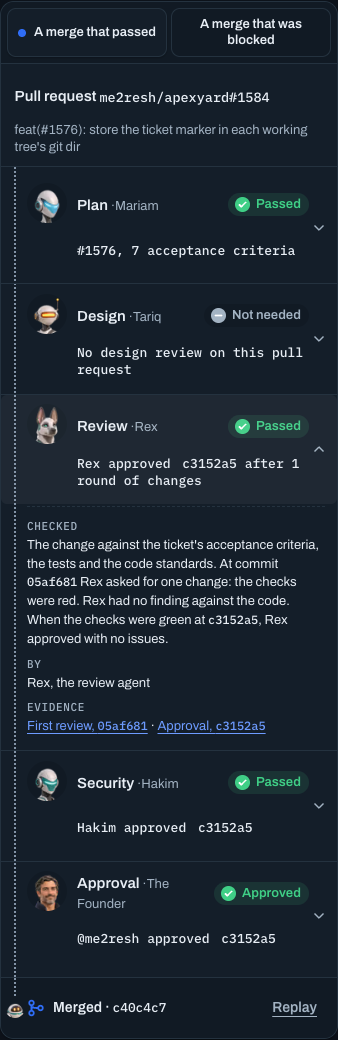
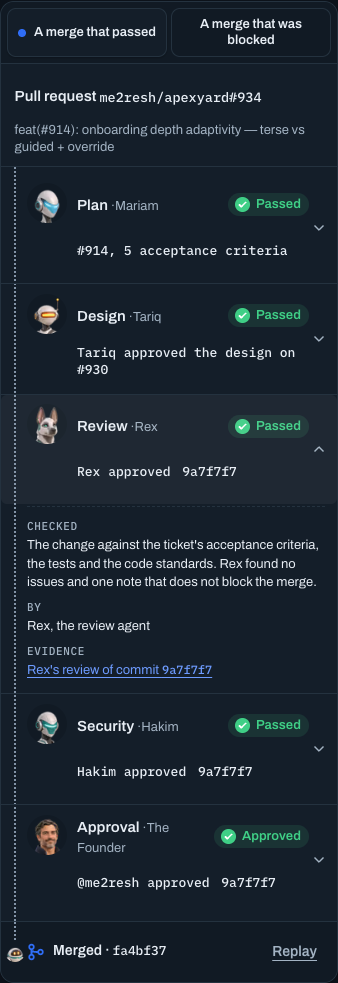
chore(#174): show #934 as the passed example
The passed run now shows me2resh/apexyard#934, which closes ticket #914.
The earlier choice, #1584, had a design review on its predecessor pull
request that asked for changes and never closed.

Every fact and link comes from the real records. The design row links
Tariq's approved design review on #930, the design pull request that #934
builds to. Rex, Hakim and the owner reviewed commit 9a7f7f7 with no round
of changes. The merge commit is fa4bf37.

The new-tab links and the screen reader hint stay on all 29 links.
test-crew-hero.sh now checks #934 and #914. Screenshots are retaken.

Closes #174

diff --git a/index.html b/index.html
@@ -121,8 +121,8 @@
         </div>
         <div class="gc-run gc-run--clean is-active" data-run="clean" role="group" aria-labelledby="gc-title">
         <div class="gc-head">
-          <h2 class="gc-pr" id="gc-title">Pull request <a href="https://github.com/me2resh/apexyard/pull/1584" target="_blank" rel="noopener">me2resh/apexyard#1584<span class="vh"> (opens in a new tab)</span></a></h2>
-          <p class="gc-title">feat(#1576): store the ticket marker in each working tree's git dir</p>
+          <h2 class="gc-pr" id="gc-title">Pull request <a href="https://github.com/me2resh/apexyard/pull/934" target="_blank" rel="noopener">me2resh/apexyard#934<span class="vh"> (opens in a new tab)</span></a></h2>
+          <p class="gc-title">feat(#914): onboarding depth adaptivity &mdash; terse vs guided + override</p>
         </div>
         <ol class="gc-rows">
           <li class="gc-row" style="--i:0">
@@ -130,60 +130,60 @@
               <span class="gc-hadi" aria-hidden="true"></span>
               <span class="gc-av"><picture><source type="image/avif" srcset="/img/crew/av-mariam-48.avif 48w, /img/crew/av-mariam-96.avif 96w" sizes="44px"><source type="image/webp" srcset="/img/crew/av-mariam-48.webp 48w, /img/crew/av-mariam-96.webp 96w" sizes="44px"><img src="/img/crew/av-mariam-96.png" srcset="/img/crew/av-mariam-48.png 48w, /img/crew/av-mariam-96.png 96w" sizes="44px" width="44" height="44" alt="" decoding="async"></picture></span>
               <span class="gc-step"><button class="gc-more" type="button" aria-expanded="false" aria-controls="ev-c-0"><b>Plan</b><span>Mariam</span><span class="vh">, evidence</span></button></span>
-              <a class="gc-fact" href="https://github.com/me2resh/apexyard/issues/1576" target="_blank" rel="noopener"><span>#1576, 7 acceptance criteria</span><span class="vh"> (opens in a new tab)</span></a>
+              <a class="gc-fact" href="https://github.com/me2resh/apexyard/issues/914" target="_blank" rel="noopener"><span>#914, 5 acceptance criteria</span><span class="vh"> (opens in a new tab)</span></a>
               <span class="gc-state gc-state--pass"><svg viewBox="0 0 16 16" aria-hidden="true" focusable="false"><circle cx="8" cy="8" r="8" fill="currentColor"/><path d="M4.6 8.2l2.2 2.2 4.6-4.8" fill="none" stroke="var(--gc-tick)" stroke-width="1.8" stroke-linecap="round" stroke-linejoin="round"/></svg>Passed</span>
               <svg class="gc-chev" viewBox="0 0 16 16" aria-hidden="true" focusable="false"><path d="M4 6l4 4 4-4" fill="none" stroke="currentColor" stroke-width="1.6" stroke-linecap="round" stroke-linejoin="round"/></svg>
             </div>
-            <div class="gc-ev" id="ev-c-0" hidden><dl><div><dt>Checked</dt><dd>The pull request closes ticket #1576, a user story with 7 acceptance criteria. The ticket was written before the code.</dd></div><div><dt>By</dt><dd>The ticket's author, a contributor. This step is Mariam's, the planning agent.</dd></div><div><dt>Evidence</dt><dd><a href="https://github.com/me2resh/apexyard/issues/1576" target="_blank" rel="noopener">Ticket #1576 on GitHub<span class="vh"> (opens in a new tab)</span></a></dd></div></dl></div>
+            <div class="gc-ev" id="ev-c-0" hidden><dl><div><dt>Checked</dt><dd>The pull request closes ticket #914, a user story with 5 acceptance criteria. The ticket was written before the code, from an initiative plan.</dd></div><div><dt>By</dt><dd>Mariam, the planning agent</dd></div><div><dt>Evidence</dt><dd><a href="https://github.com/me2resh/apexyard/issues/914" target="_blank" rel="noopener">Ticket #914 on GitHub<span class="vh"> (opens in a new tab)</span></a></dd></div></dl></div>
           </li>
-          <li class="gc-row gc-row--na" style="--i:1">
+          <li class="gc-row" style="--i:1">
             <div class="gc-main">
               <span class="gc-hadi" aria-hidden="true"></span>
               <span class="gc-av"><picture><source type="image/avif" srcset="/img/crew/av-tariq-48.avif 48w, /img/crew/av-tariq-96.avif 96w" sizes="44px"><source type="image/webp" srcset="/img/crew/av-tariq-48.webp 48w, /img/crew/av-tariq-96.webp 96w" sizes="44px"><img src="/img/crew/av-tariq-96.png" srcset="/img/crew/av-tariq-48.png 48w, /img/crew/av-tariq-96.png 96w" sizes="44px" width="44" height="44" alt="" decoding="async"></picture></span>
               <span class="gc-step"><button class="gc-more" type="button" aria-expanded="false" aria-controls="ev-c-1"><b>Design</b><span>Tariq</span><span class="vh">, evidence</span></button></span>
-              <a class="gc-fact" href="https://github.com/me2resh/apexyard/pull/1584/files" target="_blank" rel="noopener"><span>No design review on this pull request</span><span class="vh"> (opens in a new tab)</span></a>
-              <span class="gc-state gc-state--na"><svg viewBox="0 0 16 16" aria-hidden="true" focusable="false"><circle cx="8" cy="8" r="8" fill="currentColor"/><path d="M4.8 8h6.4" fill="none" stroke="var(--gc-tick)" stroke-width="1.8" stroke-linecap="round"/></svg>Not needed</span>
+              <a class="gc-fact" href="https://github.com/me2resh/apexyard/pull/930#pullrequestreview-4712404847" target="_blank" rel="noopener"><span>Tariq approved the design on #930</span><span class="vh"> (opens in a new tab)</span></a>
+              <span class="gc-state gc-state--pass"><svg viewBox="0 0 16 16" aria-hidden="true" focusable="false"><circle cx="8" cy="8" r="8" fill="currentColor"/><path d="M4.6 8.2l2.2 2.2 4.6-4.8" fill="none" stroke="var(--gc-tick)" stroke-width="1.8" stroke-linecap="round" stroke-linejoin="round"/></svg>Passed</span>
               <svg class="gc-chev" viewBox="0 0 16 16" aria-hidden="true" focusable="false"><path d="M4 6l4 4 4-4" fill="none" stroke="currentColor" stroke-width="1.6" stroke-linecap="round" stroke-linejoin="round"/></svg>
             </div>
-            <div class="gc-ev" id="ev-c-1" hidden><dl><div><dt>Checked</dt><dd>This pull request continues pull request #1578. Tariq reviewed the design there, at commit <code>276fc36</code>, and asked for changes. No second design review ran on this pull request, so this row does not claim one.</dd></div><div><dt>By</dt><dd>Tariq, the design agent</dd></div><div><dt>Evidence</dt><dd><a href="https://github.com/me2resh/apexyard/pull/1578#pullrequestreview-5457528914" target="_blank" rel="noopener">Tariq's design review on pull request #1578<span class="vh"> (opens in a new tab)</span></a></dd></div></dl></div>
+            <div class="gc-ev" id="ev-c-1" hidden><dl><div><dt>Checked</dt><dd>The design was reviewed before any code, in pull request #930. It merged before this pull request. Tariq approved it at commit <code>965f28a</code>. This pull request builds to that design and adds no design file.</dd></div><div><dt>By</dt><dd>Tariq, the design agent</dd></div><div><dt>Evidence</dt><dd><a href="https://github.com/me2resh/apexyard/pull/930#pullrequestreview-4712404847" target="_blank" rel="noopener">Tariq's design review on pull request #930<span class="vh"> (opens in a new tab)</span></a></dd></div></dl></div>
           </li>
           <li class="gc-row" style="--i:2">
             <div class="gc-main">
               <span class="gc-hadi" aria-hidden="true"></span>
               <span class="gc-av"><picture><source type="image/avif" srcset="/img/crew/av-rex-48.avif 48w, /img/crew/av-rex-96.avif 96w" sizes="44px"><source type="image/webp" srcset="/img/crew/av-rex-48.webp 48w, /img/crew/av-rex-96.webp 96w" sizes="44px"><img src="/img/crew/av-rex-96.png" srcset="/img/crew/av-rex-48.png 48w, /img/crew/av-rex-96.png 96w" sizes="44px" width="44" height="44" alt="" decoding="async"></picture></span>
               <span class="gc-step"><button class="gc-more" type="button" aria-expanded="false" aria-controls="ev-c-2"><b>Review</b><span>Rex</span><span class="vh">, evidence</span></button></span>
-              <a class="gc-fact" href="https://github.com/me2resh/apexyard/pull/1584#pullrequestreview-5467771279" target="_blank" rel="noopener"><span>Rex approved <code>c3152a5</code> after 1 round of changes</span><span class="vh"> (opens in a new tab)</span></a>
+              <a class="gc-fact" href="https://github.com/me2resh/apexyard/pull/934#pullrequestreview-4712910975" target="_blank" rel="noopener"><span>Rex approved <code>9a7f7f7</code></span><span class="vh"> (opens in a new tab)</span></a>
               <span class="gc-state gc-state--pass"><svg viewBox="0 0 16 16" aria-hidden="true" focusable="false"><circle cx="8" cy="8" r="8" fill="currentColor"/><path d="M4.6 8.2l2.2 2.2 4.6-4.8" fill="none" stroke="var(--gc-tick)" stroke-width="1.8" stroke-linecap="round" stroke-linejoin="round"/></svg>Passed</span>
               <svg class="gc-chev" viewBox="0 0 16 16" aria-hidden="true" focusable="false"><path d="M4 6l4 4 4-4" fill="none" stroke="currentColor" stroke-width="1.6" stroke-linecap="round" stroke-linejoin="round"/></svg>
             </div>
-            <div class="gc-ev" id="ev-c-2" hidden><dl><div><dt>Checked</dt><dd>The change against the ticket's acceptance criteria, the tests and the code standards. At commit <code>05af681</code> Rex asked for one change: the checks were red. Rex had no finding against the code. When the checks were green at <code>c3152a5</code>, Rex approved with no issues.</dd></div><div><dt>By</dt><dd>Rex, the review agent</dd></div><div><dt>Evidence</dt><dd><a href="https://github.com/me2resh/apexyard/pull/1584#pullrequestreview-5464614767" target="_blank" rel="noopener">First review, <code>05af681</code><span class="vh"> (opens in a new tab)</span></a> &middot; <a href="https://github.com/me2resh/apexyard/pull/1584#pullrequestreview-5467771279" target="_blank" rel="noopener">Approval, <code>c3152a5</code><span class="vh"> (opens in a new tab)</span></a></dd></div></dl></div>
+            <div class="gc-ev" id="ev-c-2" hidden><dl><div><dt>Checked</dt><dd>The change against the ticket's acceptance criteria, the tests and the code standards. Rex found no issues and one note that does not block the merge.</dd></div><div><dt>By</dt><dd>Rex, the review agent</dd></div><div><dt>Evidence</dt><dd><a href="https://github.com/me2resh/apexyard/pull/934#pullrequestreview-4712910975" target="_blank" rel="noopener">Rex's review of commit <code>9a7f7f7</code><span class="vh"> (opens in a new tab)</span></a></dd></div></dl></div>
           </li>
           <li class="gc-row" style="--i:3">
             <div class="gc-main">
               <span class="gc-hadi" aria-hidden="true"></span>
               <span class="gc-av"><picture><source type="image/avif" srcset="/img/crew/av-hakim-48.avif 48w, /img/crew/av-hakim-96.avif 96w" sizes="44px"><source type="image/webp" srcset="/img/crew/av-hakim-48.webp 48w, /img/crew/av-hakim-96.webp 96w" sizes="44px"><img src="/img/crew/av-hakim-96.png" srcset="/img/crew/av-hakim-48.png 48w, /img/crew/av-hakim-96.png 96w" sizes="44px" width="44" height="44" alt="" decoding="async"></picture></span>
               <span class="gc-step"><button class="gc-more" type="button" aria-expanded="false" aria-controls="ev-c-3"><b>Security</b><span>Hakim</span><span class="vh">, evidence</span></button></span>
-              <a class="gc-fact" href="https://github.com/me2resh/apexyard/pull/1584#pullrequestreview-5467807136" target="_blank" rel="noopener"><span>Hakim approved <code>c3152a5</code></span><span class="vh"> (opens in a new tab)</span></a>
+              <a class="gc-fact" href="https://github.com/me2resh/apexyard/pull/934#pullrequestreview-4712906106" target="_blank" rel="noopener"><span>Hakim approved <code>9a7f7f7</code></span><span class="vh"> (opens in a new tab)</span></a>
               <span class="gc-state gc-state--pass"><svg viewBox="0 0 16 16" aria-hidden="true" focusable="false"><circle cx="8" cy="8" r="8" fill="currentColor"/><path d="M4.6 8.2l2.2 2.2 4.6-4.8" fill="none" stroke="var(--gc-tick)" stroke-width="1.8" stroke-linecap="round" stroke-linejoin="round"/></svg>Passed</span>
               <svg class="gc-chev" viewBox="0 0 16 16" aria-hidden="true" focusable="false"><path d="M4 6l4 4 4-4" fill="none" stroke="currentColor" stroke-width="1.6" stroke-linecap="round" stroke-linejoin="round"/></svg>
             </div>
-            <div class="gc-ev" id="ev-c-3" hidden><dl><div><dt>Checked</dt><dd>The ticket marker code as part of the gate: forged <code>.git</code> files, symlinks, hard links and the rule that lets a marker be written. Hakim ran probes against the real hooks and found no blocking issue. One low advisory was about the docs.</dd></div><div><dt>By</dt><dd>Hakim, the security agent</dd></div><div><dt>Evidence</dt><dd><a href="https://github.com/me2resh/apexyard/pull/1584#pullrequestreview-5467807136" target="_blank" rel="noopener">Hakim's review of commit <code>c3152a5</code><span class="vh"> (opens in a new tab)</span></a></dd></div></dl></div>
+            <div class="gc-ev" id="ev-c-3" hidden><dl><div><dt>Checked</dt><dd>The new session marker and start-up hook as part of the gate: can any path reach a review or approval marker, and can typed text reach a command. Hakim found no issue at any level.</dd></div><div><dt>By</dt><dd>Hakim, the security agent</dd></div><div><dt>Evidence</dt><dd><a href="https://github.com/me2resh/apexyard/pull/934#pullrequestreview-4712906106" target="_blank" rel="noopener">Hakim's review of commit <code>9a7f7f7</code><span class="vh"> (opens in a new tab)</span></a></dd></div></dl></div>
           </li>
           <li class="gc-row gc-row--approved" style="--i:4">
             <div class="gc-main">
               <span class="gc-hadi" aria-hidden="true"></span>
               <span class="gc-av"><picture><source type="image/avif" srcset="/img/crew/av-founder-48.avif 48w, /img/crew/av-founder-96.avif 96w" sizes="44px"><source type="image/webp" srcset="/img/crew/av-founder-48.webp 48w, /img/crew/av-founder-96.webp 96w" sizes="44px"><img src="/img/crew/av-founder-96.png" srcset="/img/crew/av-founder-48.png 48w, /img/crew/av-founder-96.png 96w" sizes="44px" width="44" height="44" alt="" decoding="async"></picture></span>
               <span class="gc-step"><button class="gc-more" type="button" aria-expanded="false" aria-controls="ev-c-4"><b>Approval</b><span>The Founder</span><span class="vh">, evidence</span></button></span>
-              <a class="gc-fact" href="https://github.com/me2resh/apexyard/pull/1584#pullrequestreview-5467865946" target="_blank" rel="noopener"><span>@me2resh approved <code>c3152a5</code></span><span class="vh"> (opens in a new tab)</span></a>
+              <a class="gc-fact" href="https://github.com/me2resh/apexyard/pull/934#pullrequestreview-4712973274" target="_blank" rel="noopener"><span>@me2resh approved <code>9a7f7f7</code></span><span class="vh"> (opens in a new tab)</span></a>
               <span class="gc-state gc-state--pass"><svg viewBox="0 0 16 16" aria-hidden="true" focusable="false"><circle cx="8" cy="8" r="8" fill="currentColor"/><path d="M4.6 8.2l2.2 2.2 4.6-4.8" fill="none" stroke="var(--gc-tick)" stroke-width="1.8" stroke-linecap="round" stroke-linejoin="round"/></svg>Approved</span>
               <svg class="gc-chev" viewBox="0 0 16 16" aria-hidden="true" focusable="false"><path d="M4 6l4 4 4-4" fill="none" stroke="currentColor" stroke-width="1.6" stroke-linecap="round" stroke-linejoin="round"/></svg>
             </div>
-            <div class="gc-ev" id="ev-c-4" hidden><dl><div><dt>Checked</dt><dd>A person gave the final approval for this merge. Agents do not give this approval.</dd></div><div><dt>By</dt><dd>@me2resh, the person who owns the merge</dd></div><div><dt>Evidence</dt><dd><a href="https://github.com/me2resh/apexyard/pull/1584#pullrequestreview-5467865946" target="_blank" rel="noopener">The approval on pull request #1584<span class="vh"> (opens in a new tab)</span></a></dd></div></dl></div>
+            <div class="gc-ev" id="ev-c-4" hidden><dl><div><dt>Checked</dt><dd>A person gave the final approval for this merge. Agents do not give this approval.</dd></div><div><dt>By</dt><dd>@me2resh, the person who owns the merge</dd></div><div><dt>Evidence</dt><dd><a href="https://github.com/me2resh/apexyard/pull/934#pullrequestreview-4712973274" target="_blank" rel="noopener">The approval on pull request #934<span class="vh"> (opens in a new tab)</span></a></dd></div></dl></div>
           </li>
         </ol>
         <div class="gc-foot">
           <span class="gc-hadi gc-hadi--end" aria-hidden="true"></span>
-          <a class="gc-merged" href="https://github.com/me2resh/apexyard/commit/c40c4c7964b46a2289d471b486e1966f53606b0f" target="_blank" rel="noopener"><svg viewBox="0 0 16 16" aria-hidden="true" focusable="false"><circle cx="4" cy="3.5" r="2" fill="none" stroke="currentColor" stroke-width="1.6"/><circle cx="4" cy="12.5" r="2" fill="none" stroke="currentColor" stroke-width="1.6"/><circle cx="12" cy="8" r="2" fill="none" stroke="currentColor" stroke-width="1.6"/><path d="M4 5.5v5M4 5.5c0 2.5 2 2.5 6 2.5" fill="none" stroke="currentColor" stroke-width="1.6"/></svg><span>Merged &middot; <code>c40c4c7</code></span><span class="vh"> (opens in a new tab)</span></a>
+          <a class="gc-merged" href="https://github.com/me2resh/apexyard/commit/fa4bf376474b5553f8c3711e40e6ae3f541ad1f5" target="_blank" rel="noopener"><svg viewBox="0 0 16 16" aria-hidden="true" focusable="false"><circle cx="4" cy="3.5" r="2" fill="none" stroke="currentColor" stroke-width="1.6"/><circle cx="4" cy="12.5" r="2" fill="none" stroke="currentColor" stroke-width="1.6"/><circle cx="12" cy="8" r="2" fill="none" stroke="currentColor" stroke-width="1.6"/><path d="M4 5.5v5M4 5.5c0 2.5 2 2.5 6 2.5" fill="none" stroke="currentColor" stroke-width="1.6"/></svg><span>Merged &middot; <code>fa4bf37</code></span><span class="vh"> (opens in a new tab)</span></a>
           <button class="gc-replay" type="button" data-replay hidden>Replay</button>
         </div>
         </div>
